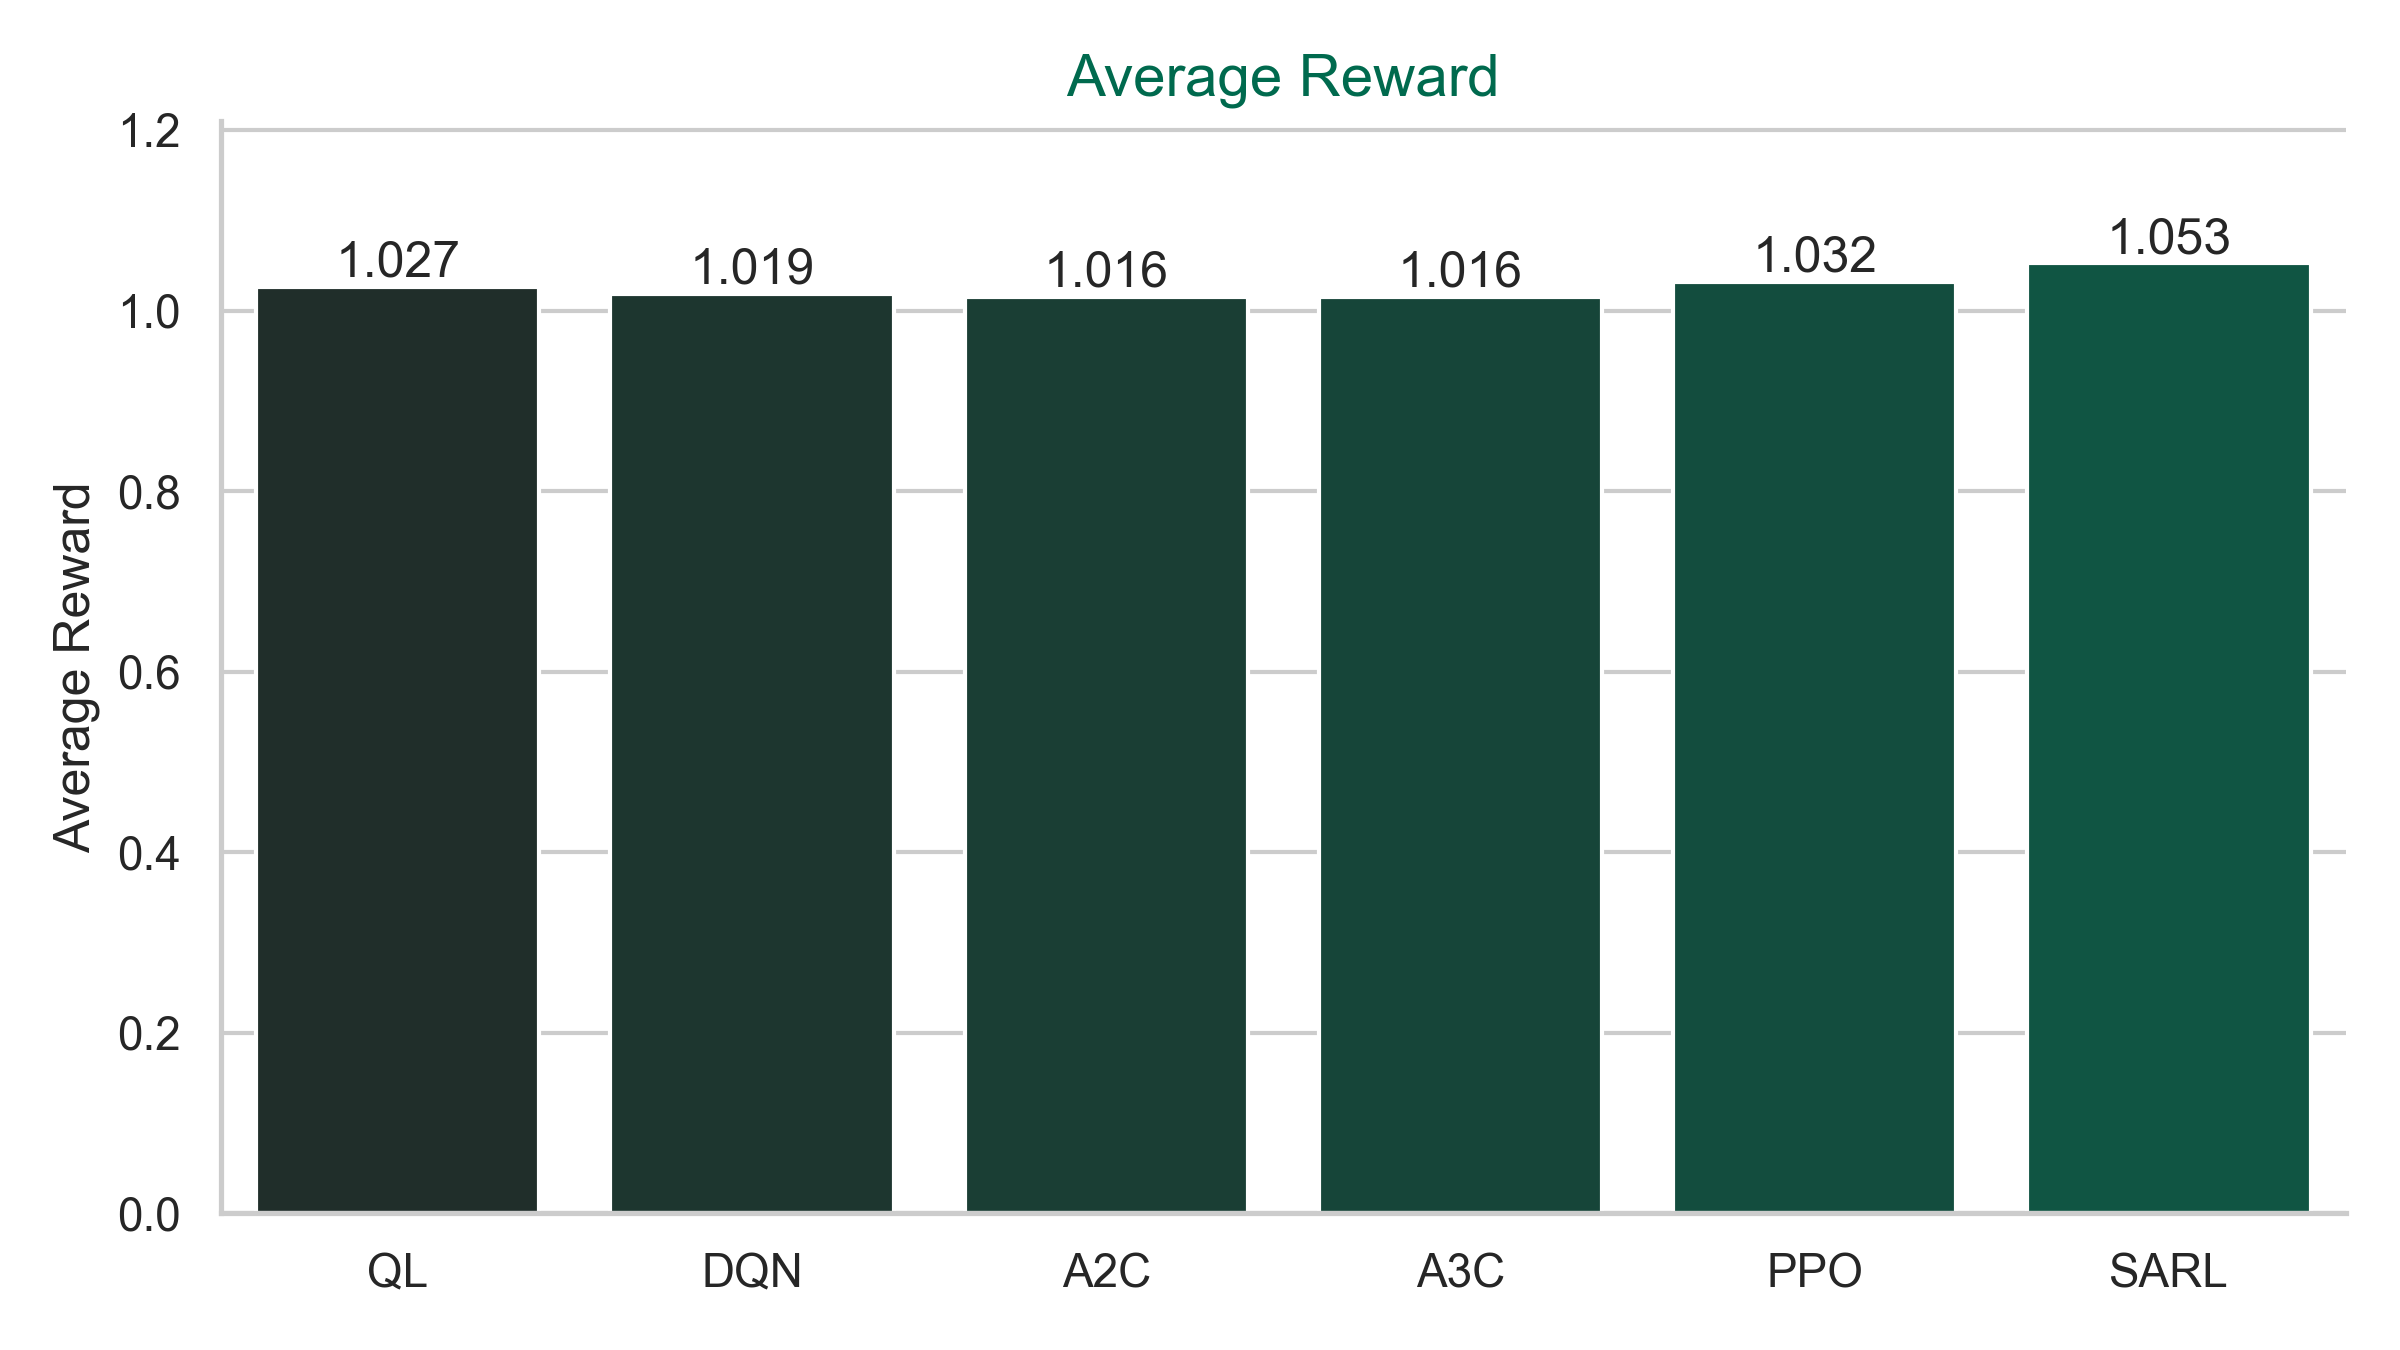
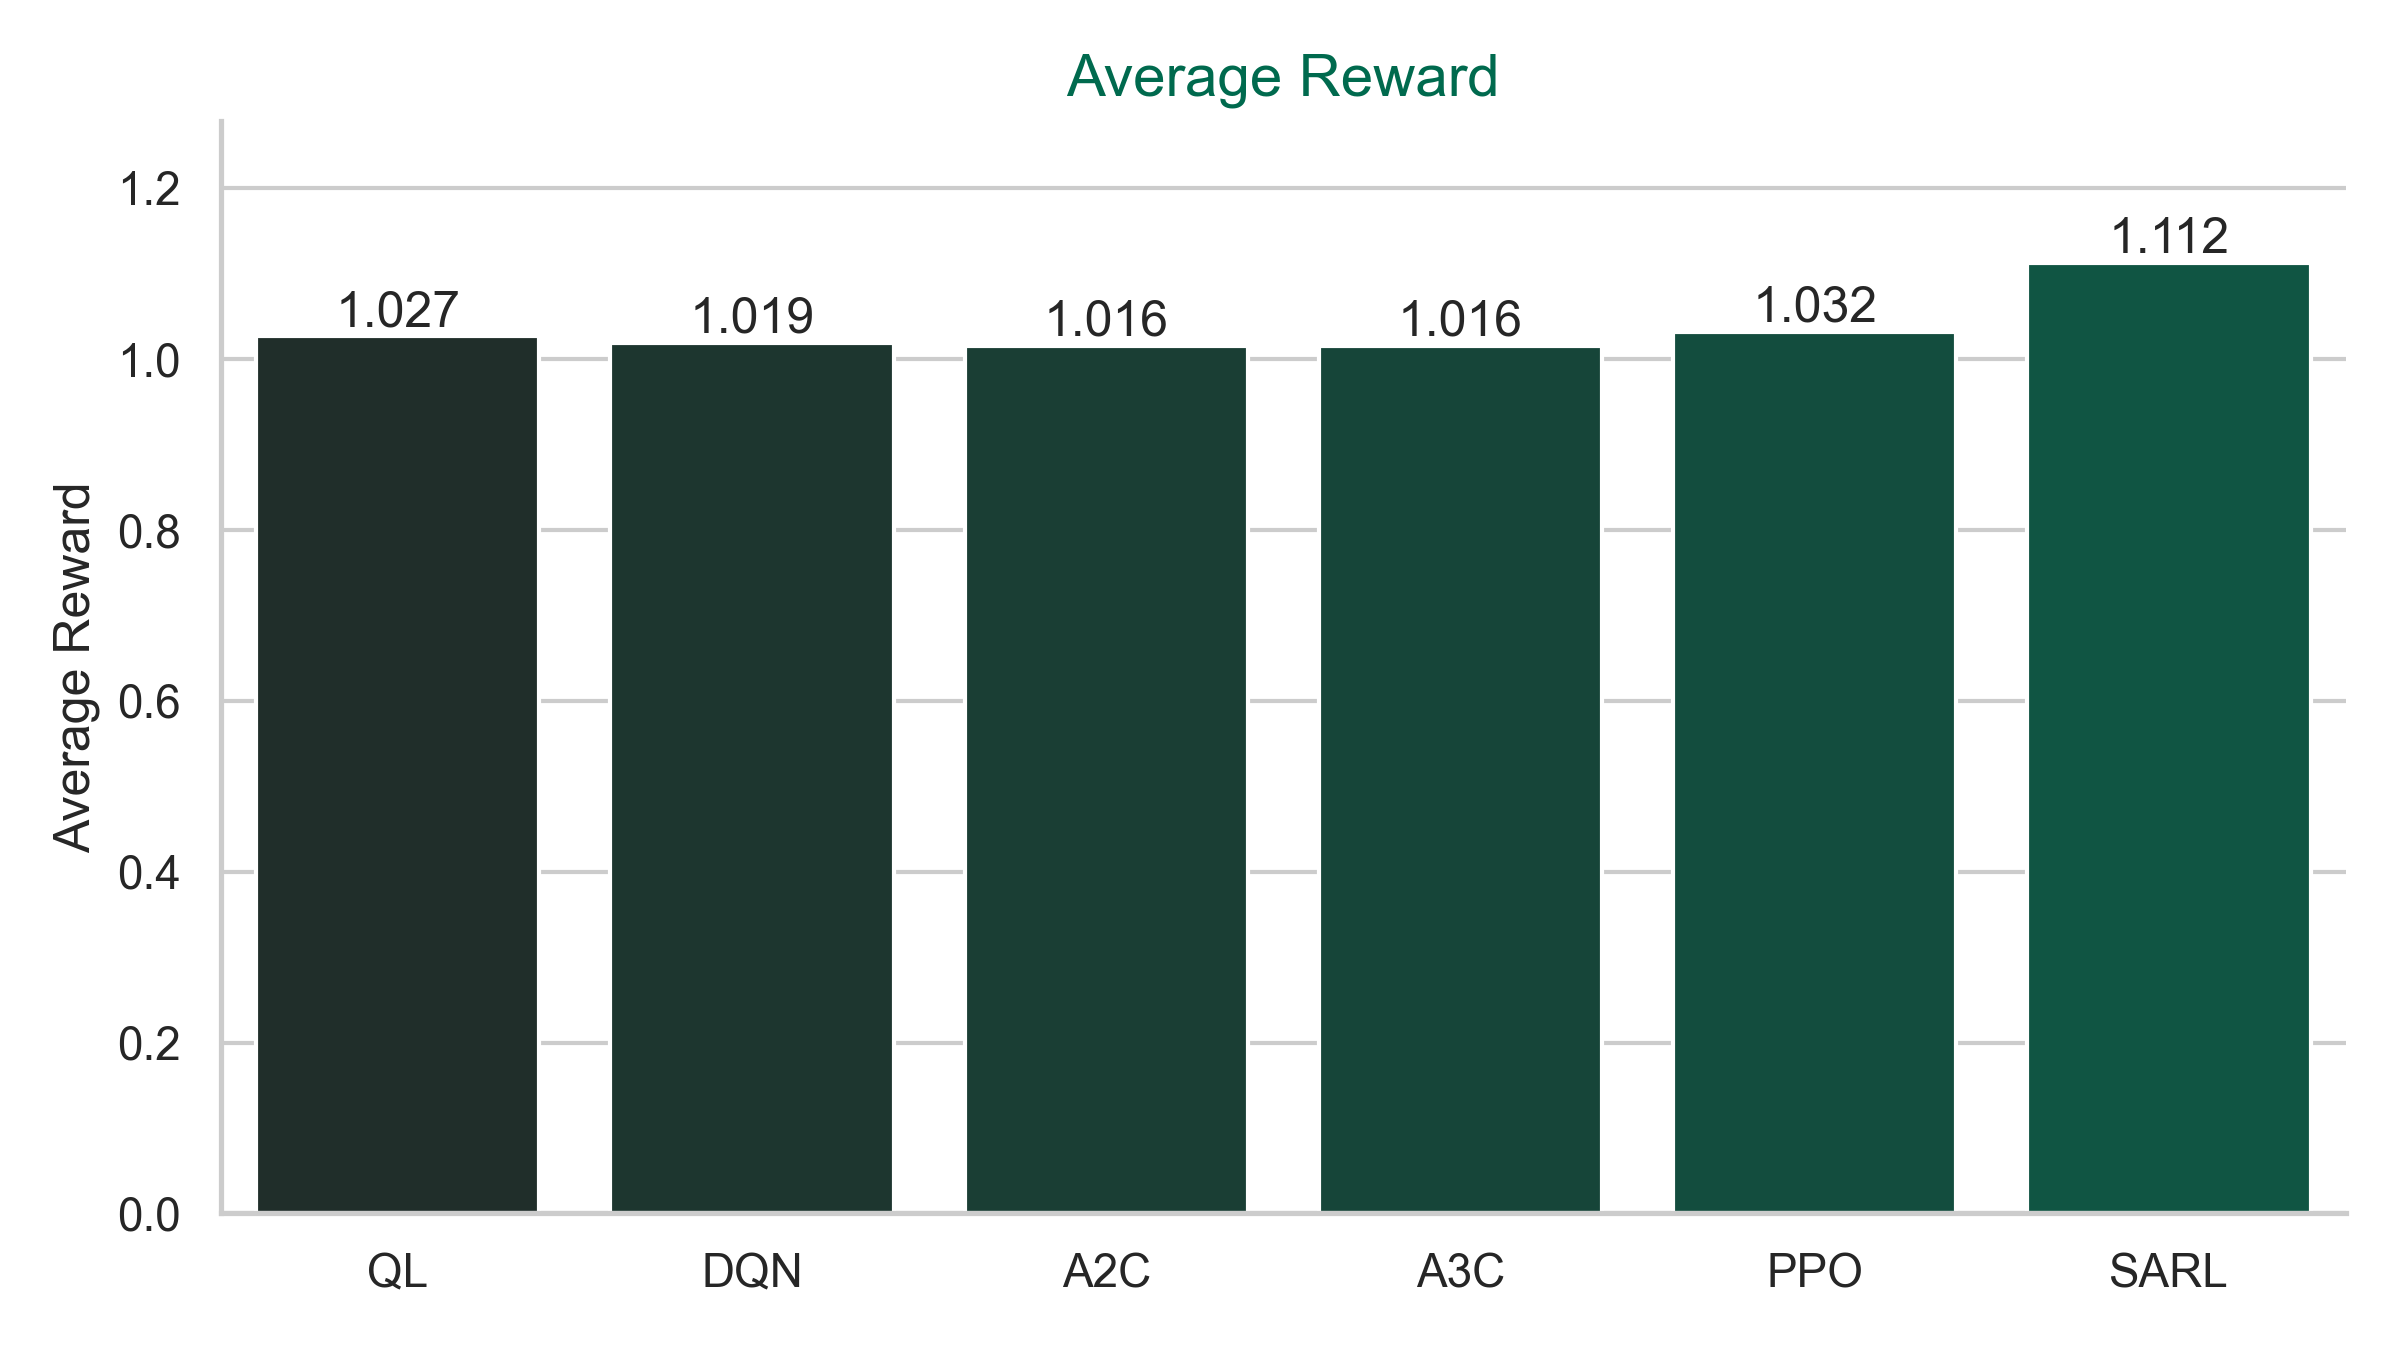
Added changes

diff --git a/curriculum_sequencing_rl/plot_poster.py b/curriculum_sequencing_rl/plot_poster.py
@@ -1024,6 +1024,14 @@ def main() -> None:
     df_sel = _compute_derived_fields(df_sel)
     df_sel = _ordered_df(df_sel)
 
+    # Poster-specific override: set SARL's reward bar value to 1.112
+    try:
+        if "model" in df_sel.columns and "reward" in df_sel.columns:
+            mask_sarl = df_sel["model"].astype(str).str.upper() == "SARL"
+            if bool(mask_sarl.any()):
+                df_sel.loc[mask_sarl, "reward"] = 1.112
+    except Exception as e:
+        print(f"[WARN] Failed to apply SARL reward override: {e}")
     print("Selected rows for models:")
     print(df_sel[[c for c in ["model", "timestamp", "reward", "vpr", "regret_ratio", "__source_csv"] if c in df_sel.columns]].to_string(index=False))
 
